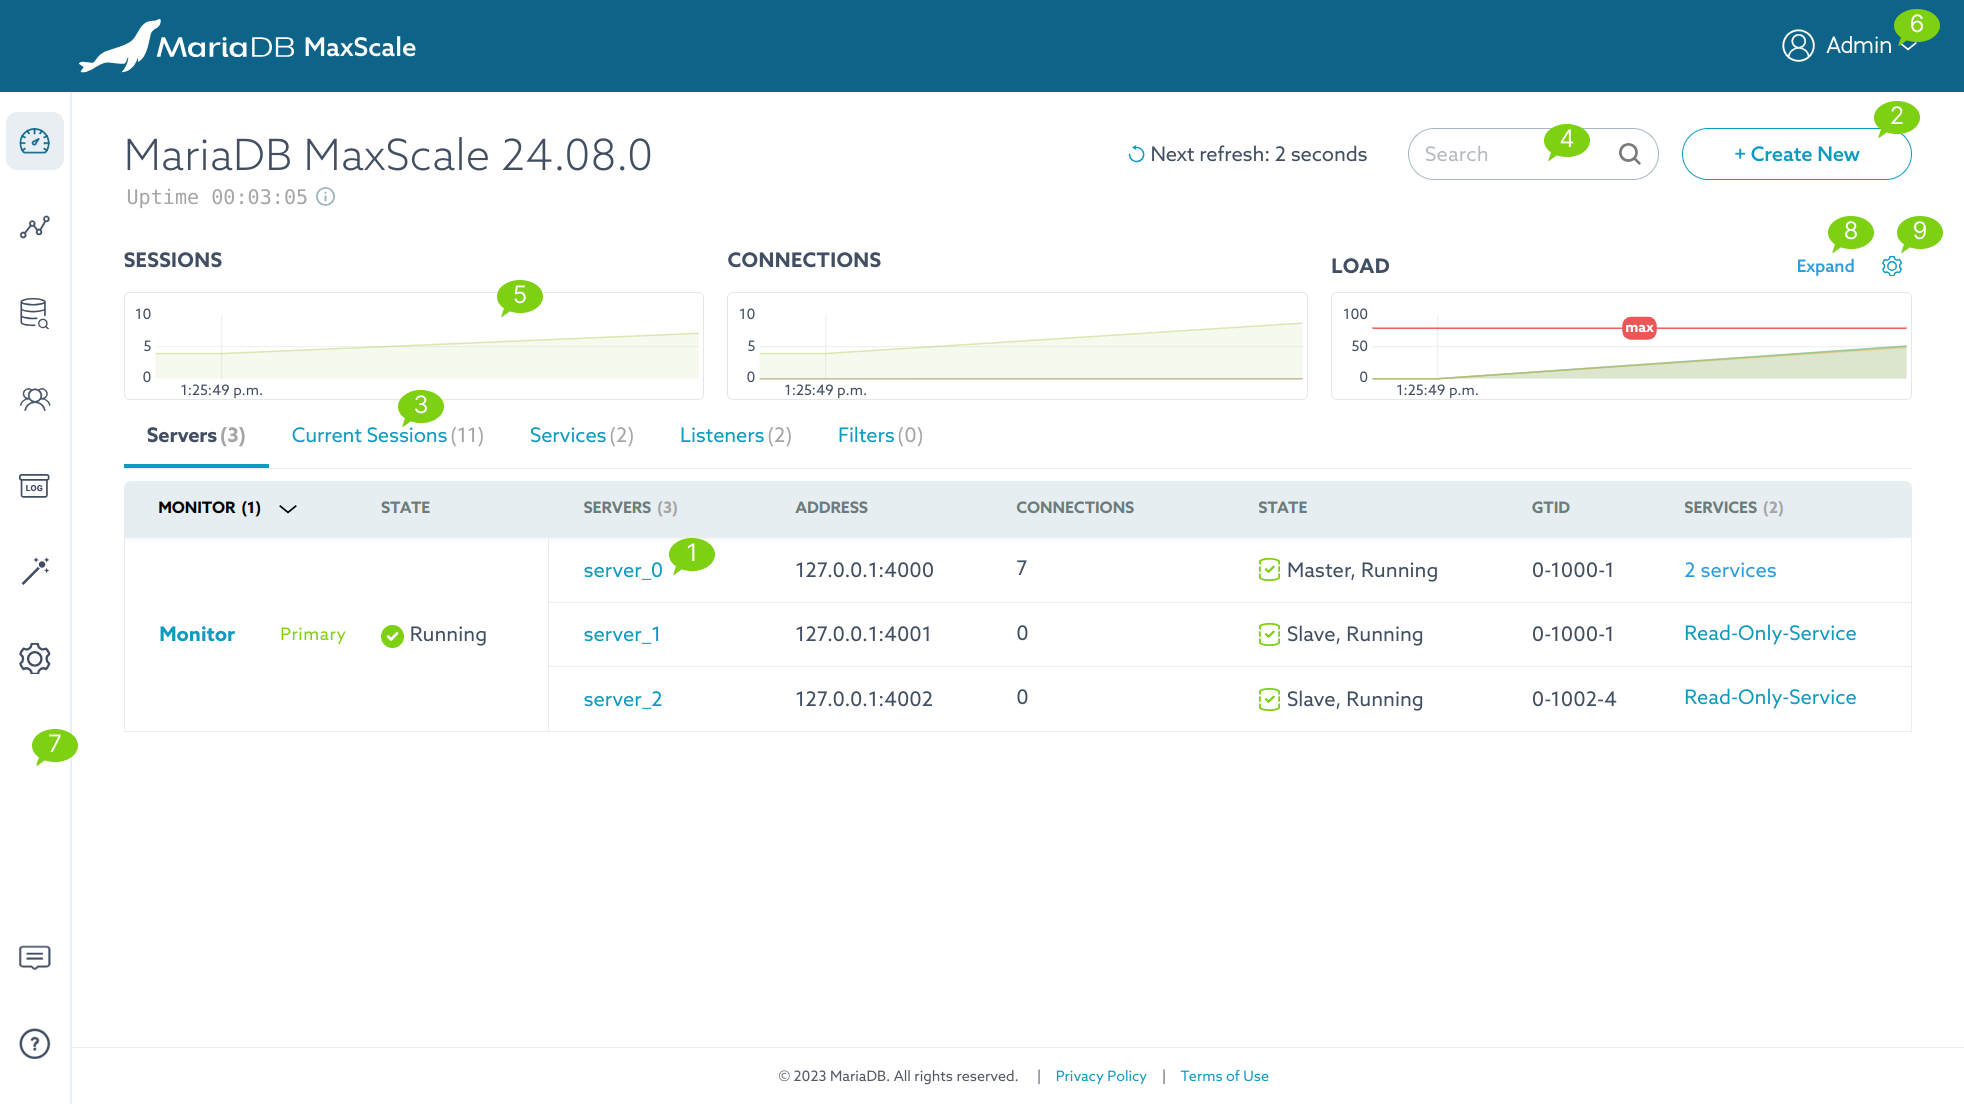
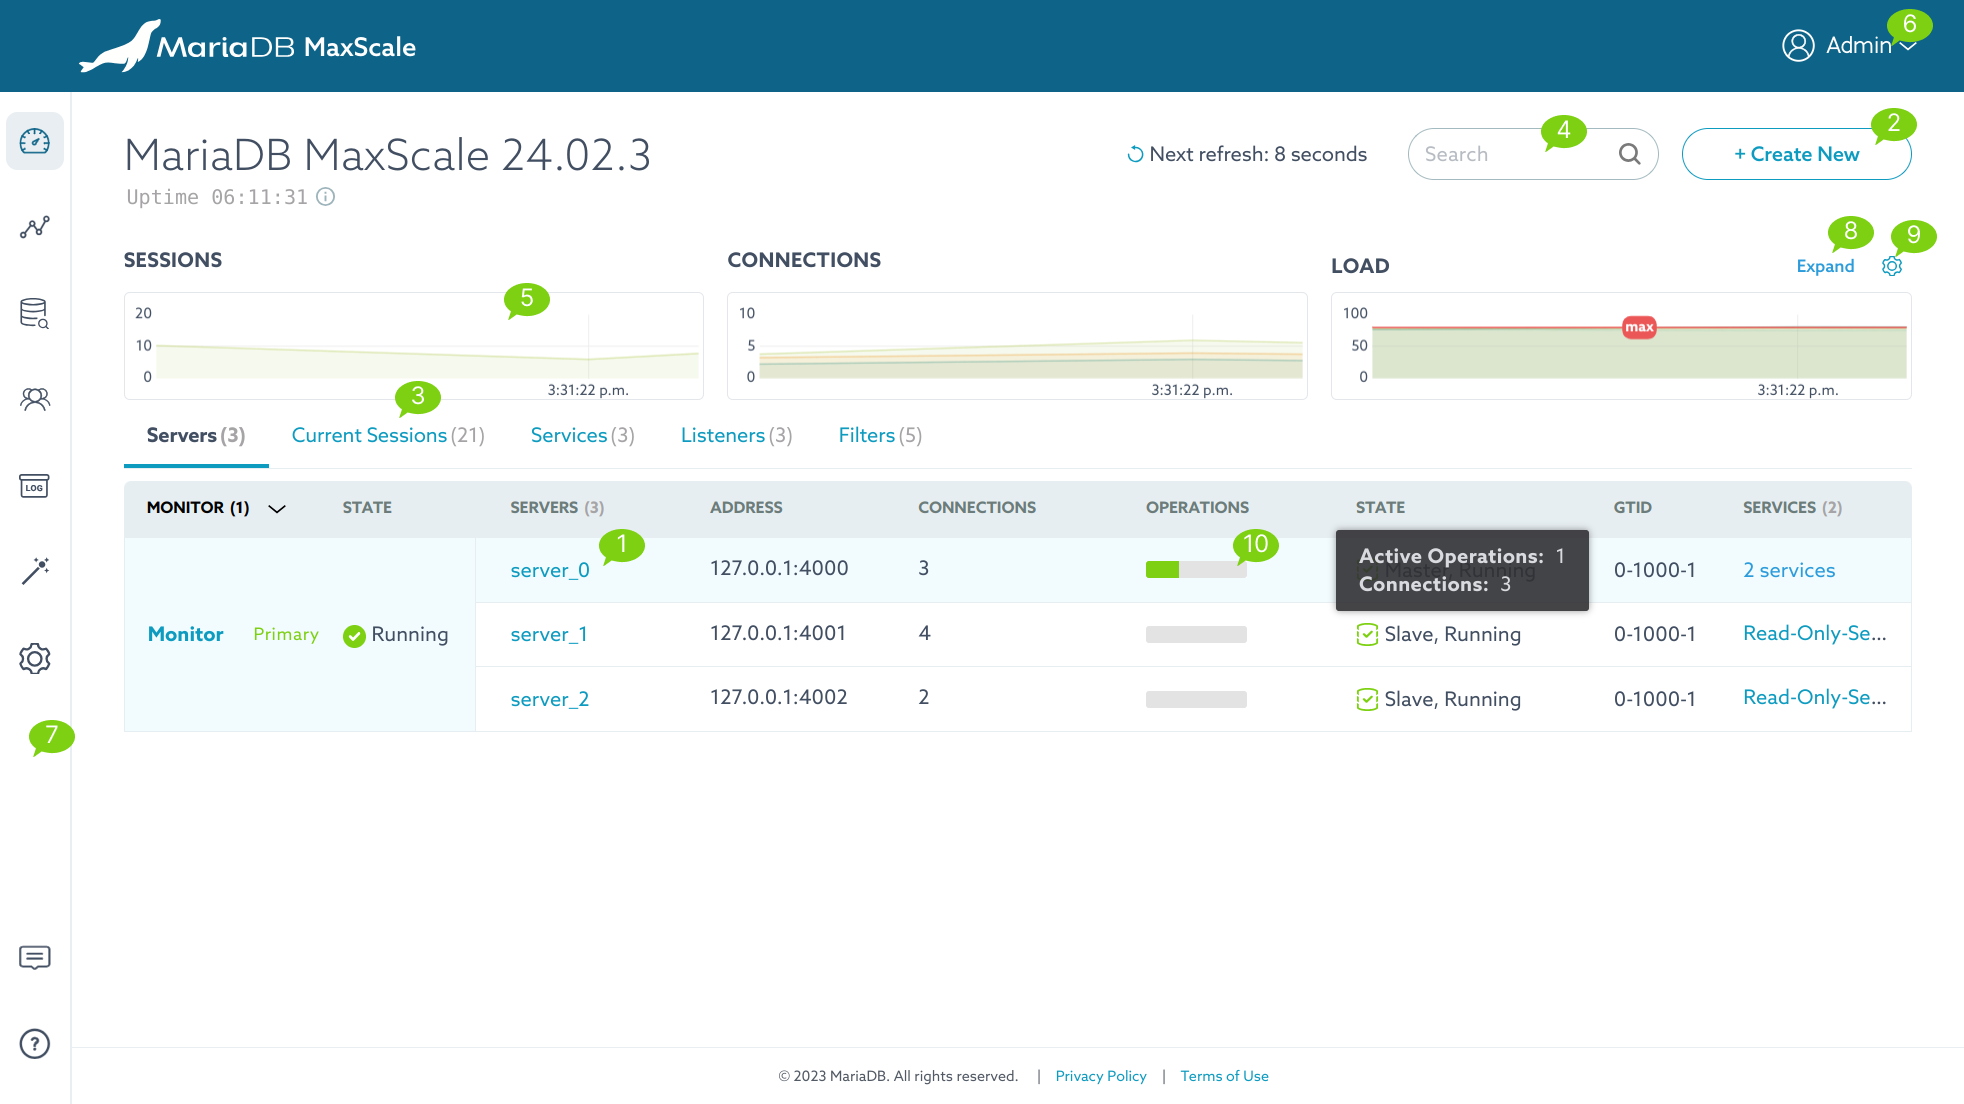
MXS-5228 Update maxgui tutorial
Add a new annotation for the "OPERATIONS" column of the servers
table on the dashboard.

diff --git a/Documentation/Tutorials/Using-MaxGUI-Tutorial.md b/Documentation/Tutorials/Using-MaxGUI-Tutorial.md
@@ -29,6 +29,10 @@ solution to [MaxCtrl](../Reference/MaxCtrl.md).
     Visualization, Settings, Logs Archive, Query Editor
 8.  Expand/Collapse the graphs
 9.  Graph annotation configuration.
+10. Active Operations Bar: This bar chart represents the proportion of active
+    operations on the server relative to the total number of connections. The
+    value displayed is the ratio of `active_operations` to `connections`,
+    providing a visual gauge of server activity.
 
 ## Create a new MaxScale object
 
